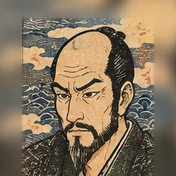
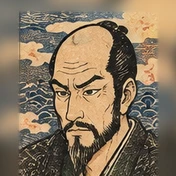
浮世絵版: 勝海舟・弁慶・近藤勇・徳川家康・武田信玄の位置と大きさを調整
Claude-Session: https://claude.ai/code/session_015fwoRN5EZXb2K7SzR6LxUP

diff --git a/mahjong/tools/cut_ukiyoe.py b/mahjong/tools/cut_ukiyoe.py
@@ -18,8 +18,8 @@ EYE = [88, 93, 90, 95, 98, 95, 90, 93,   100, 105, 100, 100, 100, 108, 100, 90, 
 import numpy as np
 SCALE = 0.748  # 顔の大きさ(1=パネルの横幅いっぱい)。小さくすると、まわりを足して、顔が小さく見える
 # 1人ずつの調整(番号は 1〜32)。 SIZE: 顔の大きさを、全体(SCALE)の何倍にするか / UP: 顔を上にあげる量(窓の高さに対する割合。0.05 = 5%)
-SIZE = {1: 0.90, 4: 0.95, 6: 0.95, 9: 0.95, 12: 1.05, 13: 0.95, 14: 1.05, 17: 1.05, 26: 1.05}
-UP = {1: 0.05, 2: 0.10, 3: 0.05, 4: 0.05, 5: 0.10, 6: 0.10, 7: 0.05, 8: 0.05, 12: 0.05, 17: 0.05, 20: 0.05, 26: 0.10, 28: 0.05}
+SIZE = {1: 0.90, 4: 0.95, 6: 0.95, 7: 1.05, 8: 1.05, 9: 0.95, 12: 1.00, 13: 0.95, 14: 1.05, 17: 1.05, 26: 1.05, 27: 1.05, 29: 1.05}
+UP = {1: 0.05, 2: 0.10, 3: 0.05, 4: 0.05, 5: 0.10, 6: 0.10, 7: 0.07, 8: 0.10, 17: 0.05, 20: 0.05, 26: 0.10, 27: 0.05, 28: 0.05, 29: 0.05}
 P = 60        # まわりを足す幅(鏡のように折り返す)
 im = Image.open(os.path.join(U, 'sheet_cpu.png')).convert('RGB')
 n = 0
